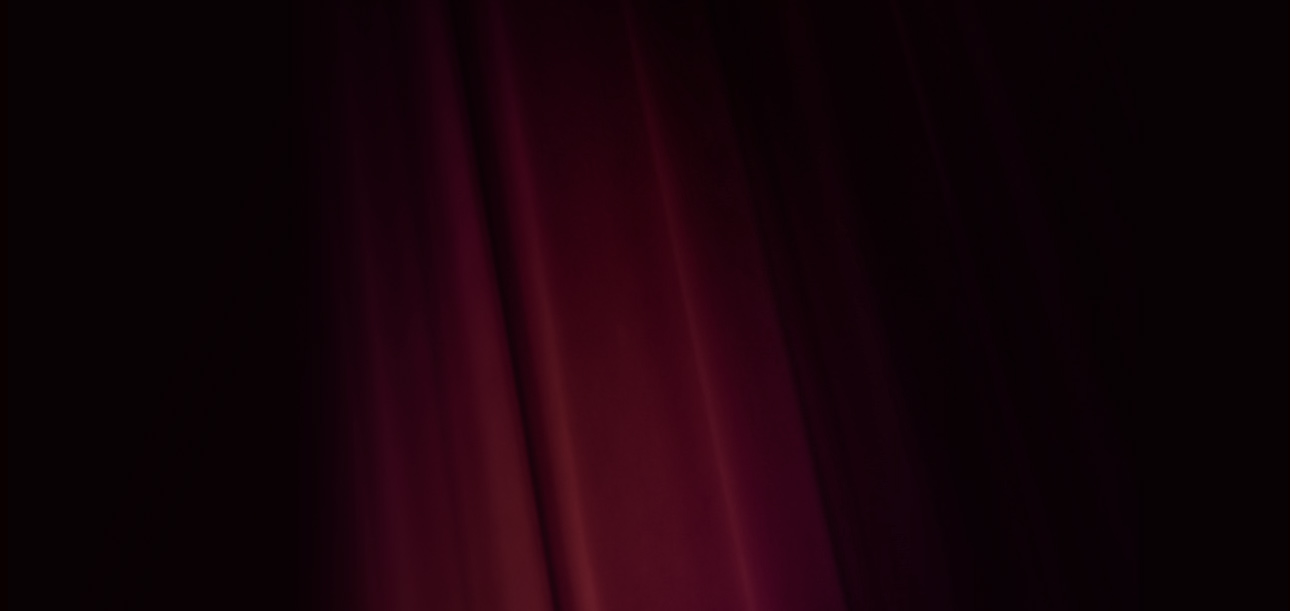
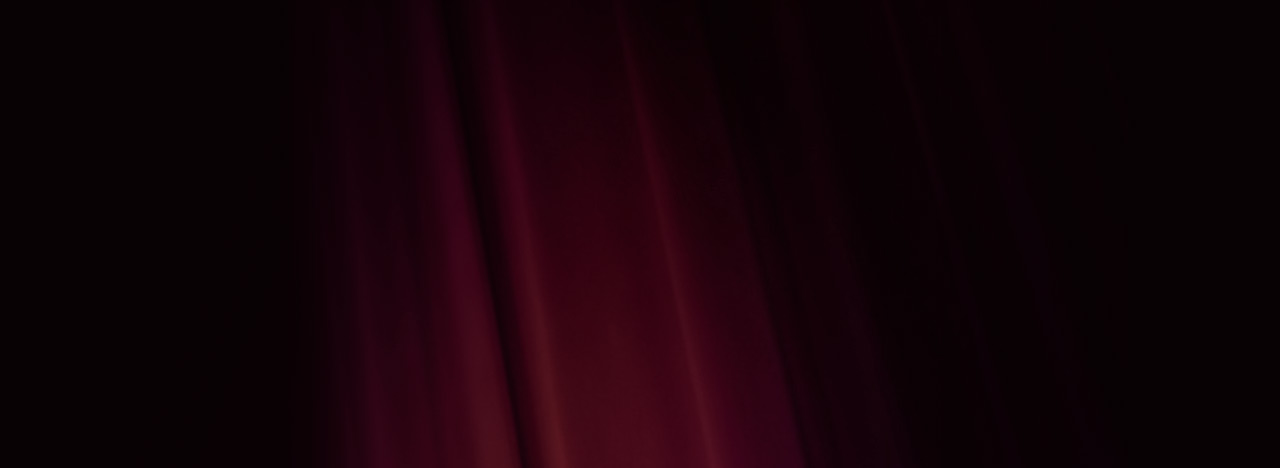
update  task 1009

Changed region(s): [[0.3438, 0.2991, 0.4688, 1.0], [0.5312, 0.5085, 0.5625, 0.7778], [0.5625, 0.7778, 0.5938, 1.0]]

diff --git a/index.html b/index.html
@@ -34,7 +34,7 @@
                     </ul>
                 </nav>
 
-                <div class="header-fund"><a href="#"><img src="images/header-fund.png" alt="" width="140" height="54" /></a></div>
+                <div class="header-fund"><a href="#"><img src="images/header-fund.png" alt="" width="99" height="29" /></a></div>
 
                 <div class="header-social">
                     <a href="#" class="header-social-1"></a>
@@ -237,14 +237,66 @@
 
                 <!-- partners -->
                 <section id="partners">
-                    <div class="partners-title">Партнёры проекта</div>
-                    <div class="partners-list">
-                        <img src="images/partner-1.png" alt="" width="141" height="157" />
-                        <img src="images/partner-2.png" alt="" width="226" height="89" />
+                    <div class="partners-org">
+                        <div class="partners-org-title">Организаторы</div>
+                        <div class="partners-org-list">
+                            <div class="partners-org-item">
+                                <div class="partners-org-item-logo"><a href="#"><img src="images/partner-1.png" alt="" width="141" height="157" class="partners-org-1" /></a></div>
+                                <div class="partners-org-item-name">Национальный фонд<br />«Общественное признание»</div>
+                            </div>
+                            <div class="partners-org-item">
+                                <div class="partners-org-item-logo"><a href="#"><img src="images/partner-2.png" alt="" width="226" height="89" class="partners-org-2" /></a></div>
+                                <div class="partners-org-item-name">Группа компаний<br />«Сибирский альянс»</div>
+                            </div>
+                            <div class="partners-org-item">
+                                <div class="partners-org-item-logo"><a href="#"><img src="images/partner-3.png" alt="" width="145" height="124" class="partners-org-3" /></a></div>
+                                <div class="partners-org-item-name">Рада Ерденко<br />и Николай Тцихелашвилли</div>
+                            </div>
+                        </div>
                     </div>
-                    <div class="partners-sep"></div>
-                    <div class="partners-link"><img src="images/partners-link.png" alt="" width="947" height="50" /></div>
-                    <div class="partners-text">к участию в проекте</div>
+
+                    <div class="partners-support">
+                        <div class="partners-support-title">При поддержке</div>
+                        <div class="partners-support-list">
+                            <a href="#"><img src="files/partner-01.png" alt="" width="99" height="104" /></a>
+                            <a href="#"><img src="files/partner-02.png" alt="" width="87" height="85" /></a>
+                            <a href="#"><img src="files/partner-03.png" alt="" width="126" height="104" /></a>
+                            <a href="#"><img src="files/partner-04.png" alt="" width="140" height="65" /></a>
+                            <a href="#"><img src="files/partner-05.png" alt="" width="140" height="33" /></a>
+                            <a href="#"><img src="files/partner-06.png" alt="" width="120" height="93" /></a>
+                            <a href="#"><img src="files/partner-07.png" alt="" width="117" height="83" /></a>
+                            <a href="#"><img src="files/partner-08.png" alt="" width="129" height="50" /></a>
+                            <a href="#"><img src="files/partner-09.png" alt="" width="97" height="97" /></a>
+                            <a href="#"><img src="files/partner-10.png" alt="" width="139" height="139" /></a>
+                        </div>
+                    </div>
+
+                    <div class="partners-info">
+                        <div class="partners-support-title">Информационные Партнеры</div>
+                        <div class="partners-support-list">
+                            <a href="#"><img src="files/partner-04.png" alt="" width="140" height="65" /></a>
+                            <a href="#"><img src="files/partner-05.png" alt="" width="140" height="33" /></a>
+                            <a href="#"><img src="files/partner-08.png" alt="" width="129" height="50" /></a>
+                            <a href="#"><img src="files/partner-06.png" alt="" width="120" height="93" /></a>
+                        </div>
+                    </div>
+
+                    <div class="partners-part">
+                        <div class="partners-support-title">Партнеры</div>
+                        <div class="partners-support-list">
+                            <a href="#"><img src="files/partner-11.png" alt="" width="140" height="140" /></a>
+                            <a href="#"><img src="files/partner-11.png" alt="" width="140" height="140" /></a>
+                            <a href="#"><img src="files/partner-11.png" alt="" width="140" height="140" /></a>
+                            <a href="#"><img src="files/partner-11.png" alt="" width="140" height="140" /></a>
+                            <a href="#"><img src="files/partner-11.png" alt="" width="140" height="140" /></a>
+                            <a href="#"><img src="files/partner-11.png" alt="" width="140" height="140" /></a>
+                        </div>
+                    </div>
+
+                    <div class="partners-welcome">
+                        <div class="partners-link"><img src="images/partners-link.png" alt="" width="939" height="44" /></div>
+                        <div class="partners-text">к участию в проекте</div>
+                    </div>
                 </section>
                 <!-- partners END -->
 

diff --git a/css/styles.css b/css/styles.css
@@ -13,7 +13,7 @@ a:hover {background:none}
 img {border:none}
 
 header {position:fixed; left:0; top:0; z-index:10; width:100%; background:#09030c}
-.header-inner {position:relative; width:940px; margin:0 auto}
+.header-inner {position:relative; width:940px; margin:0 auto; height:54px}
 .header-inner:after {content:"."; display:block; clear:both; visibility:hidden; height:0}
 
 nav {float:left; font-weight:normal; font-family:ProximaNovaBold, sans-serif; text-transform:uppercase; color:#fff; padding:18px 0 0 0}
@@ -24,7 +24,7 @@ nav ul li a {background:none; color:#fc4c02}
 nav ul li a:hover {color:#cf2700}
 nav ul li.active a {color:#fff}
 
-.header-fund {float:right; line-height:0}
+.header-fund {float:right; line-height:0; padding:10px 0 0 0}
 .header-fund a {background:none}
 
 .header-social {float:right; padding:13px 62px 0 0}
@@ -174,12 +174,37 @@ form:after {content:"."; display:block; clear:both; visibility:hidden; height:0}
 .news-ctrl a.active {background:#f60800}
 .news-all {position:absolute; right:10px; top:0; padding:0 20px; background:#fff; text-transform:uppercase; height:31px; line-height:31px; font-weight:normal; font-family:ProximaNovaRegular, sans-serif}
 
-#partners {height:611px; position:relative; background:#080104 url(../images/partners-bg.jpg) no-repeat center top}
-.partners-title {font:36px/36px ProximaNovaBold, sans-serif; text-transform:uppercase; color:#fff; text-align:center; padding:71px 0 0 0}
-.partners-title:before,
-.partners-title:after {content:""; display:inline-block; vertical-align:top; width:28px; height:27px; background:url(../images/content-h1.png); margin:2px 19px 0 19px}
-.partners-list {font-size:0; line-height:0; letter-spacing:-1px; width:960px; margin:0 auto; padding:58px 0 62px 0; text-align:center}
-.partners-list img {display:inline-block; vertical-align:middle; margin:0 48px}
-.partners-sep {width:940px; margin:0 auto; height:2px; background:#fff; opacity:.1; filter:progid:DXImageTransform.Microsoft.Alpha(opacity=10)}
-.partners-link {line-height:0; text-align:center; padding:67px 0 0 0}
-.partners-text {font:30px/30px ProximaNovaRegular, sans-serif; text-align:center; color:#fff; text-transform:uppercase; padding:21px 0 0 0}
+#partners {position:relative}
+
+.partners-org {height:468px; background:#080104 url(../images/partners-bg.jpg) no-repeat center top}
+.partners-org-title {font:36px/36px ProximaNovaBold, sans-serif; text-transform:uppercase; color:#fff; text-align:center; padding:71px 0 0 0}
+.partners-org-title:before,
+.partners-org-title:after {content:""; display:inline-block; vertical-align:top; width:28px; height:27px; background:url(../images/content-h1.png); margin:2px 19px 0 19px}
+.partners-org-list {width:960px; margin:0 auto; padding:58px 0 0 0}
+.partners-org-list:after {content:"."; display:block; clear:both; visibility:hidden; height:0}
+.partners-org-item {float:left; width:260px}
+.partners-org-item:first-child {padding:0 0 0 110px}
+.partners-org-item-logo {line-height:0; height:186px}
+.partners-org-item-logo a {background:none}
+.partners-org-item-logo img {position:relative}
+.partners-org-1 {left:-1px}
+.partners-org-2 {left:-3px; top:49px}
+.partners-org-3 {left:37px; top:10px}
+.partners-org-item-name {color:#fff; font:14px/18px ProximaNovaRegular, sans-serif; text-transform:uppercase}
+
+.partners-support {width:960px; margin:0 auto; padding:72px 0 0 0}
+.partners-support-title {font:36px/36px ProximaNovaBold, sans-serif; text-transform:uppercase; color:#000; text-align:center}
+.partners-support-title:before,
+.partners-support-title:after {content:""; display:inline-block; vertical-align:top; width:28px; height:27px; background:url(../images/content-h1.png); margin:2px 19px 0 19px}
+.partners-support-list {text-align:center; font-size:0; line-height:0; letter-spacing:-1px; padding:46px 0 0 0}
+.partners-support-list a {background:none}
+.partners-support-list img {vertical-align:middle; margin:10px 20px}
+
+.partners-info {width:960px; margin:0 auto; padding:66px 0 0 0}
+
+.partners-part {width:960px; margin:0 auto; padding:73px 0 64px 0}
+.partners-part img {position:relative; margin-left:10px; margin-right:10px; -moz-border-radius:70px; -webkit-border-radius:70px; border-radius:70px; behavior:url(./js/PIE.htc)}
+
+.partners-welcome {height:217px; background:#080104 url(../images/partners-welcome-bg.jpg) no-repeat center top}
+.partners-link {line-height:0; text-align:center; padding:59px 0 0 0}
+.partners-text {font:30px/30px ProximaNovaRegular, sans-serif; text-align:center; color:#fff; text-transform:uppercase; padding:27px 0 0 0}

diff --git a/typography.html b/typography.html
@@ -24,7 +24,7 @@
 
         <header>
             <div class="header-inner">
-                <div class="header-fund"><a href="#"><img src="images/header-fund.png" alt="" width="140" height="54" /></a></div>
+                <div class="header-fund"><a href="#"><img src="images/header-fund.png" alt="" width="99" height="29" /></a></div>
 
                 <div class="header-social">
                     <a href="#" class="header-social-1"></a>
